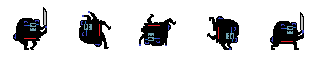
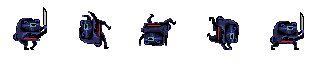
feat: Improve backflip
Improve backflip animation, disable attacking while flip is happening

diff --git a/lib/shared/player/my_player.dart b/lib/shared/player/my_player.dart
@@ -9,6 +9,7 @@ import 'package:flutter/services.dart';
 
 class MyPlayer extends SimplePlayer with BlockMovementCollision, HandleForces {
   double attack = 20;
+  bool ableToAttack=true;
   
   late PlayerBarLifeController barLifeController;
 
@@ -39,22 +40,26 @@ class MyPlayer extends SimplePlayer with BlockMovementCollision, HandleForces {
   Future<void> onJoystickAction(JoystickActionEvent event) async {
     // TODO can't do if dead or spinning or doing some other cool stuff.
     if (event.event == ActionEvent.DOWN) {
-      if (event.id == LogicalKeyboardKey.space) {
+      if (event.id == LogicalKeyboardKey.space && ableToAttack) {
         // super.stopMove();
+        ableToAttack=false;
         speed=0;
         animation?.playOnceOther("attack");
         execMeleeAttack(attack);
         await Future.delayed(Duration(milliseconds: 400));
         speed=150;       
+        ableToAttack=true;
       }
       if (event.id == LogicalKeyboardKey.keyX) {
         // super.stopMove();
+        ableToAttack=false;
         speed=0;
         animation?.playOnceOther("backflip");
         // execMeleeAttack(attack);
         
         await Future.delayed(Duration(milliseconds: 1000));
-        speed=150;       
+        speed=150;   
+        ableToAttack=true;    
       }
     }
     super.onJoystickAction(event);
